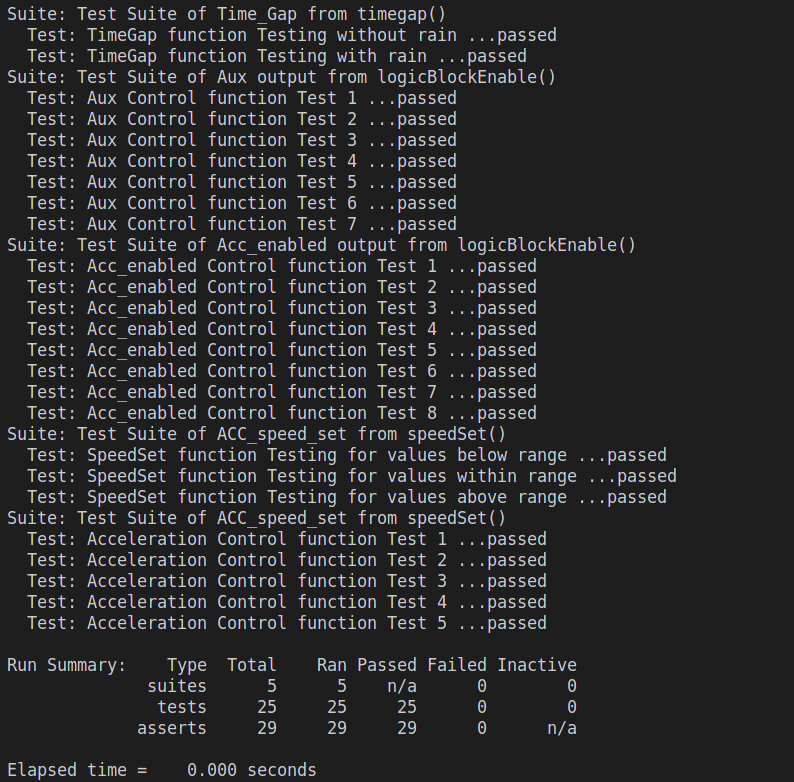
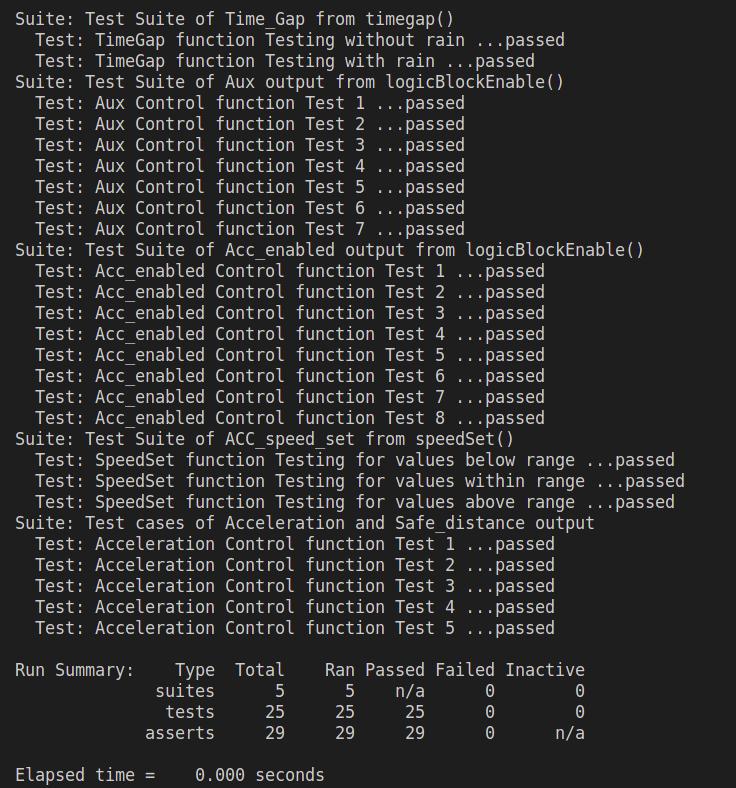
update: readme

Changed region(s): [[0.0, 0.0, 0.9375, 1.0], [0.0, 0.9514, 0.1875, 1.0]]

diff --git a/ACC_Code/Test_ACC.c b/ACC_Code/Test_ACC.c
@@ -354,7 +354,7 @@ if ((NULL == CU_add_test(pSuite3, "Acc_enabled Control function Test 8",
   }
 
 ///////////// - Suite 5 - ///////////////////
- pSuite5 = CU_add_suite("Test Suite of ACC_speed_set from speedSet()", init_suite, clean_suite);
+ pSuite5 = CU_add_suite("Test cases of Acceleration and Safe_distance output", init_suite, clean_suite);
    if (NULL == pSuite5) {
     CU_cleanup_registry();
     return CU_get_error();
